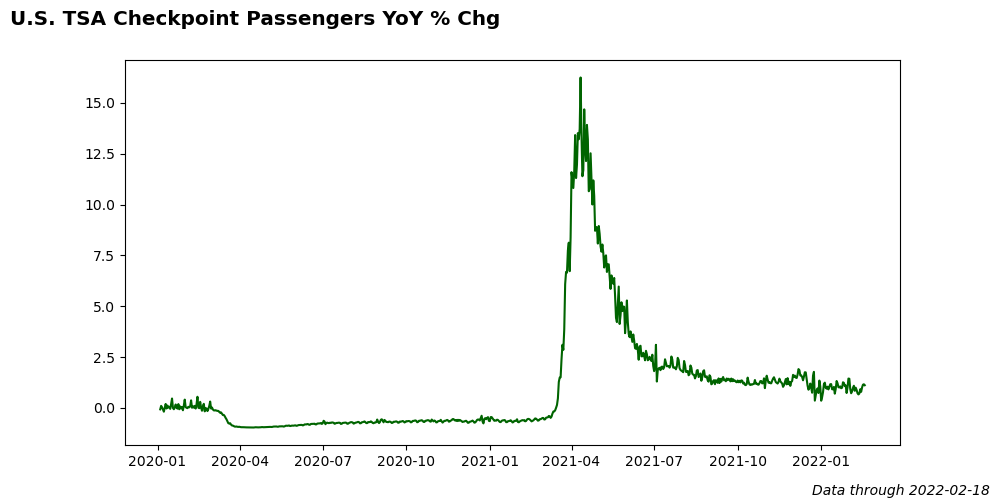
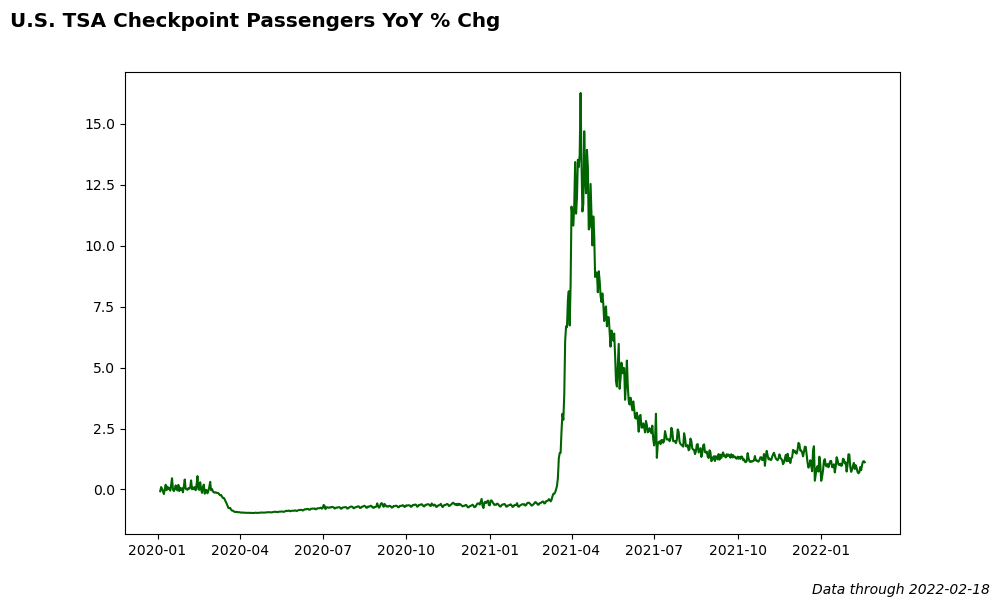
Centering page. Updating footer spacing and content.

diff --git a/projects/tsa/tsa.html b/projects/tsa/tsa.html
@@ -42,12 +42,13 @@
     <img src="tsa-full-trend.png" alt="Trend plot of TSA checkpoint passengers.", class="responsive">
     <img src="tsa-by-year.png" alt="Trend plot of TSA checkpoint passengers by year.", class="responsive">
     <img src="tsa-pct-chg-by-year.png" alt="Trend plot of percent change in TSA checkpoint passengers by year.", class="responsive">
-    <img src="tsa-pct-of-2019.png" alt="Trend plot of percent change in TSA checkpoint passengers by year.", class="responsive", style="padding-bottom: 150px">
+    <img src="tsa-pct-of-2019.png" alt="Trend plot of TSA checkpoint passengers as percent of 2019 by year.", class="responsive">
     
     <footer>
       <img src="../../images/twitter-logo.png" alt="Twitter logo.", width="30"> <a href="https://twitter.com/bbgatch">@bbgatch</a>
       <img src="../../images/github-logo.png" alt="GitHub logo.", width="30"> <a href="https://github.com/bbgatch">@bbgatch</a>
-      <p>This site is hosted on <a href="https://pages.github.com/">GitHub Pages.</a></p>
+      <p>This site is hosted on <a href="https://pages.github.com/">GitHub Pages.</a>
+        This font is <a href="https://www.jetbrains.com/lp/mono/">JetBrains Mono.</a></p>
     </footer>
 
   </body>

diff --git a/index.html b/index.html
@@ -26,6 +26,13 @@
 
   <body>
     
+    <!-- Navigation bar -->
+    <nav role="navigation" aria-label="Main menu">
+      <ul class="navbar">
+        <li><a href="index.html">Home</a></li>
+      </ul>
+    </nav>
+
     <h1>bbgatch analytics</h1>
     
     <p>Welcome to my website! This is where I'll explore new analytics projects.</p>
@@ -41,7 +48,8 @@
     <footer>
       <img src="images/twitter-logo.png" alt="Twitter logo.", width="30"> <a href="https://twitter.com/bbgatch">@bbgatch</a>
       <img src="images/github-logo.png" alt="GitHub logo.", width="30"> <a href="https://github.com/bbgatch">@bbgatch</a>
-      <p>This site is hosted on <a href="https://pages.github.com/">GitHub Pages.</a></p>
+      <p>This site is hosted on <a href="https://pages.github.com/">GitHub Pages.</a>
+         This font is <a href="https://www.jetbrains.com/lp/mono/">JetBrains Mono.</a></p>
     </footer>
 
 

diff --git a/main.css b/main.css
@@ -4,7 +4,7 @@ html {
 
 body {
     font-size: 100%;
-    width: 100vw;
+    max-width: 1000px;
     margin: auto;
 }
 
@@ -18,17 +18,23 @@ h2 {
 }
 
 a {
-    color: darkolivegreen;
+    color: #4d4d00;
 }
 
 footer {
     background-color: #e8e8e0;
-    padding-top: 15px;
+    padding-top: 8px;
     text-align: center;
-    position: fixed;
+    position: relative;
     bottom: 0;
     left: 0;
     width: 100%;
+}
+
+footer p {
+    margin: 0;
+    padding-top: 8px;
+    padding-bottom: 8px;
 }
 
 .navbar {
@@ -38,7 +44,6 @@ footer {
 }
 
 .navbar li {
-    /* list-style-type: ">"; */
     display: inline;
     margin: 0;
     padding-top: 10px;
@@ -53,4 +58,8 @@ footer {
     /* Image can shrink smaller but won't go larger than existing width. */
     max-width: 100%;
     height: auto;
+    /* Center images */
+    display: block;
+    margin-left: auto;
+    margin-right: auto;
 }

diff --git a/projects/tsa/code/plot_data.py b/projects/tsa/code/plot_data.py
@@ -3,13 +3,13 @@ import matplotlib.pyplot as plt
 from matplotlib import cm
 
 
-def plot_trend():
+def plot_trend(width=10, height=5):
     df = pd.read_csv('tsa.csv')
     df['Date'] = pd.to_datetime(df['Date'])
     latest_date = max(df['Date']).strftime('%Y-%m-%d')
 
     # Plot data
-    plt.figure(figsize=(10, 5))
+    plt.figure(figsize=(width, height))
     plt.plot(df['Date'], df['Passengers'], color='darkslategray')
     plt.suptitle('U.S. TSA Checkpoint Passengers',
                  x=0.01,
@@ -38,12 +38,12 @@ def plot_trend():
                 )
 
     plt.savefig('tsa-full-trend.png')
-    plt.show()
+    # plt.show()
     print('Trend chart created.')
 
 
 
-def plot_trend_by_year():
+def plot_trend_by_year(width=10, height=5):
     # Get latest date
     df = pd.read_csv('tsa.csv')
     df['Date'] = pd.to_datetime(df['Date'])
@@ -60,7 +60,7 @@ def plot_trend_by_year():
     cmap = cm.get_cmap('Blues')
     colors = [0.2, 0.4, 0.6, 0.95]
 
-    plt.figure(figsize=(10, 5))
+    plt.figure(figsize=(width, height))
     for i in range(num_years):
         plt.plot(df['Date'],
                 df[years[i]],
@@ -96,11 +96,11 @@ def plot_trend_by_year():
     plt.gca().set_yticklabels(['{:,.0f}'.format(x) for x in current_values])
     
     plt.savefig('tsa-by-year.png')
-    plt.show()
+    # plt.show()
     print('Trend chart by year created.')
 
 
-def plot_percent_change_trend():
+def plot_percent_change_trend(width=10, height=5):
     df = pd.read_csv('tsa.csv')
     df['Date'] = pd.to_datetime(df['Date'])
     latest_date = max(df['Date']).strftime('%Y-%m-%d')
@@ -109,7 +109,7 @@ def plot_percent_change_trend():
     df['YoY_Pct_Chg'] = df['Passengers'].pct_change(periods=364)
 
     # Plot data
-    plt.figure(figsize=(10, 5))
+    plt.figure(figsize=(width, height))
     plt.plot(df['Date'], df['YoY_Pct_Chg'], color='darkgreen')
     plt.suptitle('U.S. TSA Checkpoint Passengers YoY % Chg',
                  x=0.01,
@@ -125,11 +125,11 @@ def plot_percent_change_trend():
     # plt.gca().set_yticklabels(['{:,.0f}'.format(x) for x in current_values])
 
     plt.savefig('tsa-pct-change.png')
-    plt.show()
+    # plt.show()
     print('Percent change trend chart created.')
 
 
-def plot_percent_change_trend_by_year():
+def plot_percent_change_trend_by_year(width=10, height=5):
     # Get latest date
     df = pd.read_csv('tsa.csv')
     df['Date'] = pd.to_datetime(df['Date'])
@@ -154,7 +154,7 @@ def plot_percent_change_trend_by_year():
     cmap = cm.get_cmap('Greens')
     colors = [0.3, 0.5, 0.95]
 
-    plt.figure(figsize=(10, 5))
+    plt.figure(figsize=(width, height))
     for i in range(num_years):
         plt.plot(df['Date'],
                 df[years[i]],
@@ -192,11 +192,11 @@ def plot_percent_change_trend_by_year():
     plt.gca().set_yticklabels(['{:.0%}'.format(x) for x in current_values])
     
     plt.savefig('tsa-pct-chg-by-year.png')
-    plt.show()
+    # plt.show()
     print('Percent change trend chart by year created.')
 
 
-def plot_percent_of_2019():
+def plot_percent_of_2019(width=10, height=5):
     # Get latest date
     df = pd.read_csv('tsa.csv')
     df['Date'] = pd.to_datetime(df['Date'])
@@ -221,7 +221,7 @@ def plot_percent_of_2019():
     cmap = cm.get_cmap('Oranges')
     colors = [0.3, 0.5, 0.95]
 
-    plt.figure(figsize=(10, 5))
+    plt.figure(figsize=(width, height))
     for i in range(num_years):
         plt.plot(df['Date'],
                 df[years[i]],
@@ -263,6 +263,6 @@ def plot_percent_of_2019():
     plt.gca().set_yticklabels(['{:.0%}'.format(x) for x in current_values])
     
     plt.savefig('tsa-pct-of-2019.png')
-    plt.show()
-    print('Percent change trend chart by year created.')
+    # plt.show()
+    print('Percent of 2019 trend chart by year created.')
 

diff --git a/projects/tsa/update_tsa_data.py b/projects/tsa/update_tsa_data.py
@@ -2,11 +2,14 @@ import code.pull_data as pull_data
 import code.tidy_data as tidy_data
 import code.plot_data as plot_data
 
+width = 10
+height = 6
+
 pull_data.pull_data()
 tidy_data.tidy_data()
 tidy_data.widen_data_by_year()
-plot_data.plot_trend()
-plot_data.plot_trend_by_year()
-plot_data.plot_percent_change_trend()
-plot_data.plot_percent_change_trend_by_year()
-plot_data.plot_percent_of_2019()
+plot_data.plot_trend(width=width, height=height)
+plot_data.plot_trend_by_year(width=width, height=height)
+plot_data.plot_percent_change_trend(width=width, height=height)
+plot_data.plot_percent_change_trend_by_year(width=width, height=height)
+plot_data.plot_percent_of_2019(width=width, height=height)
